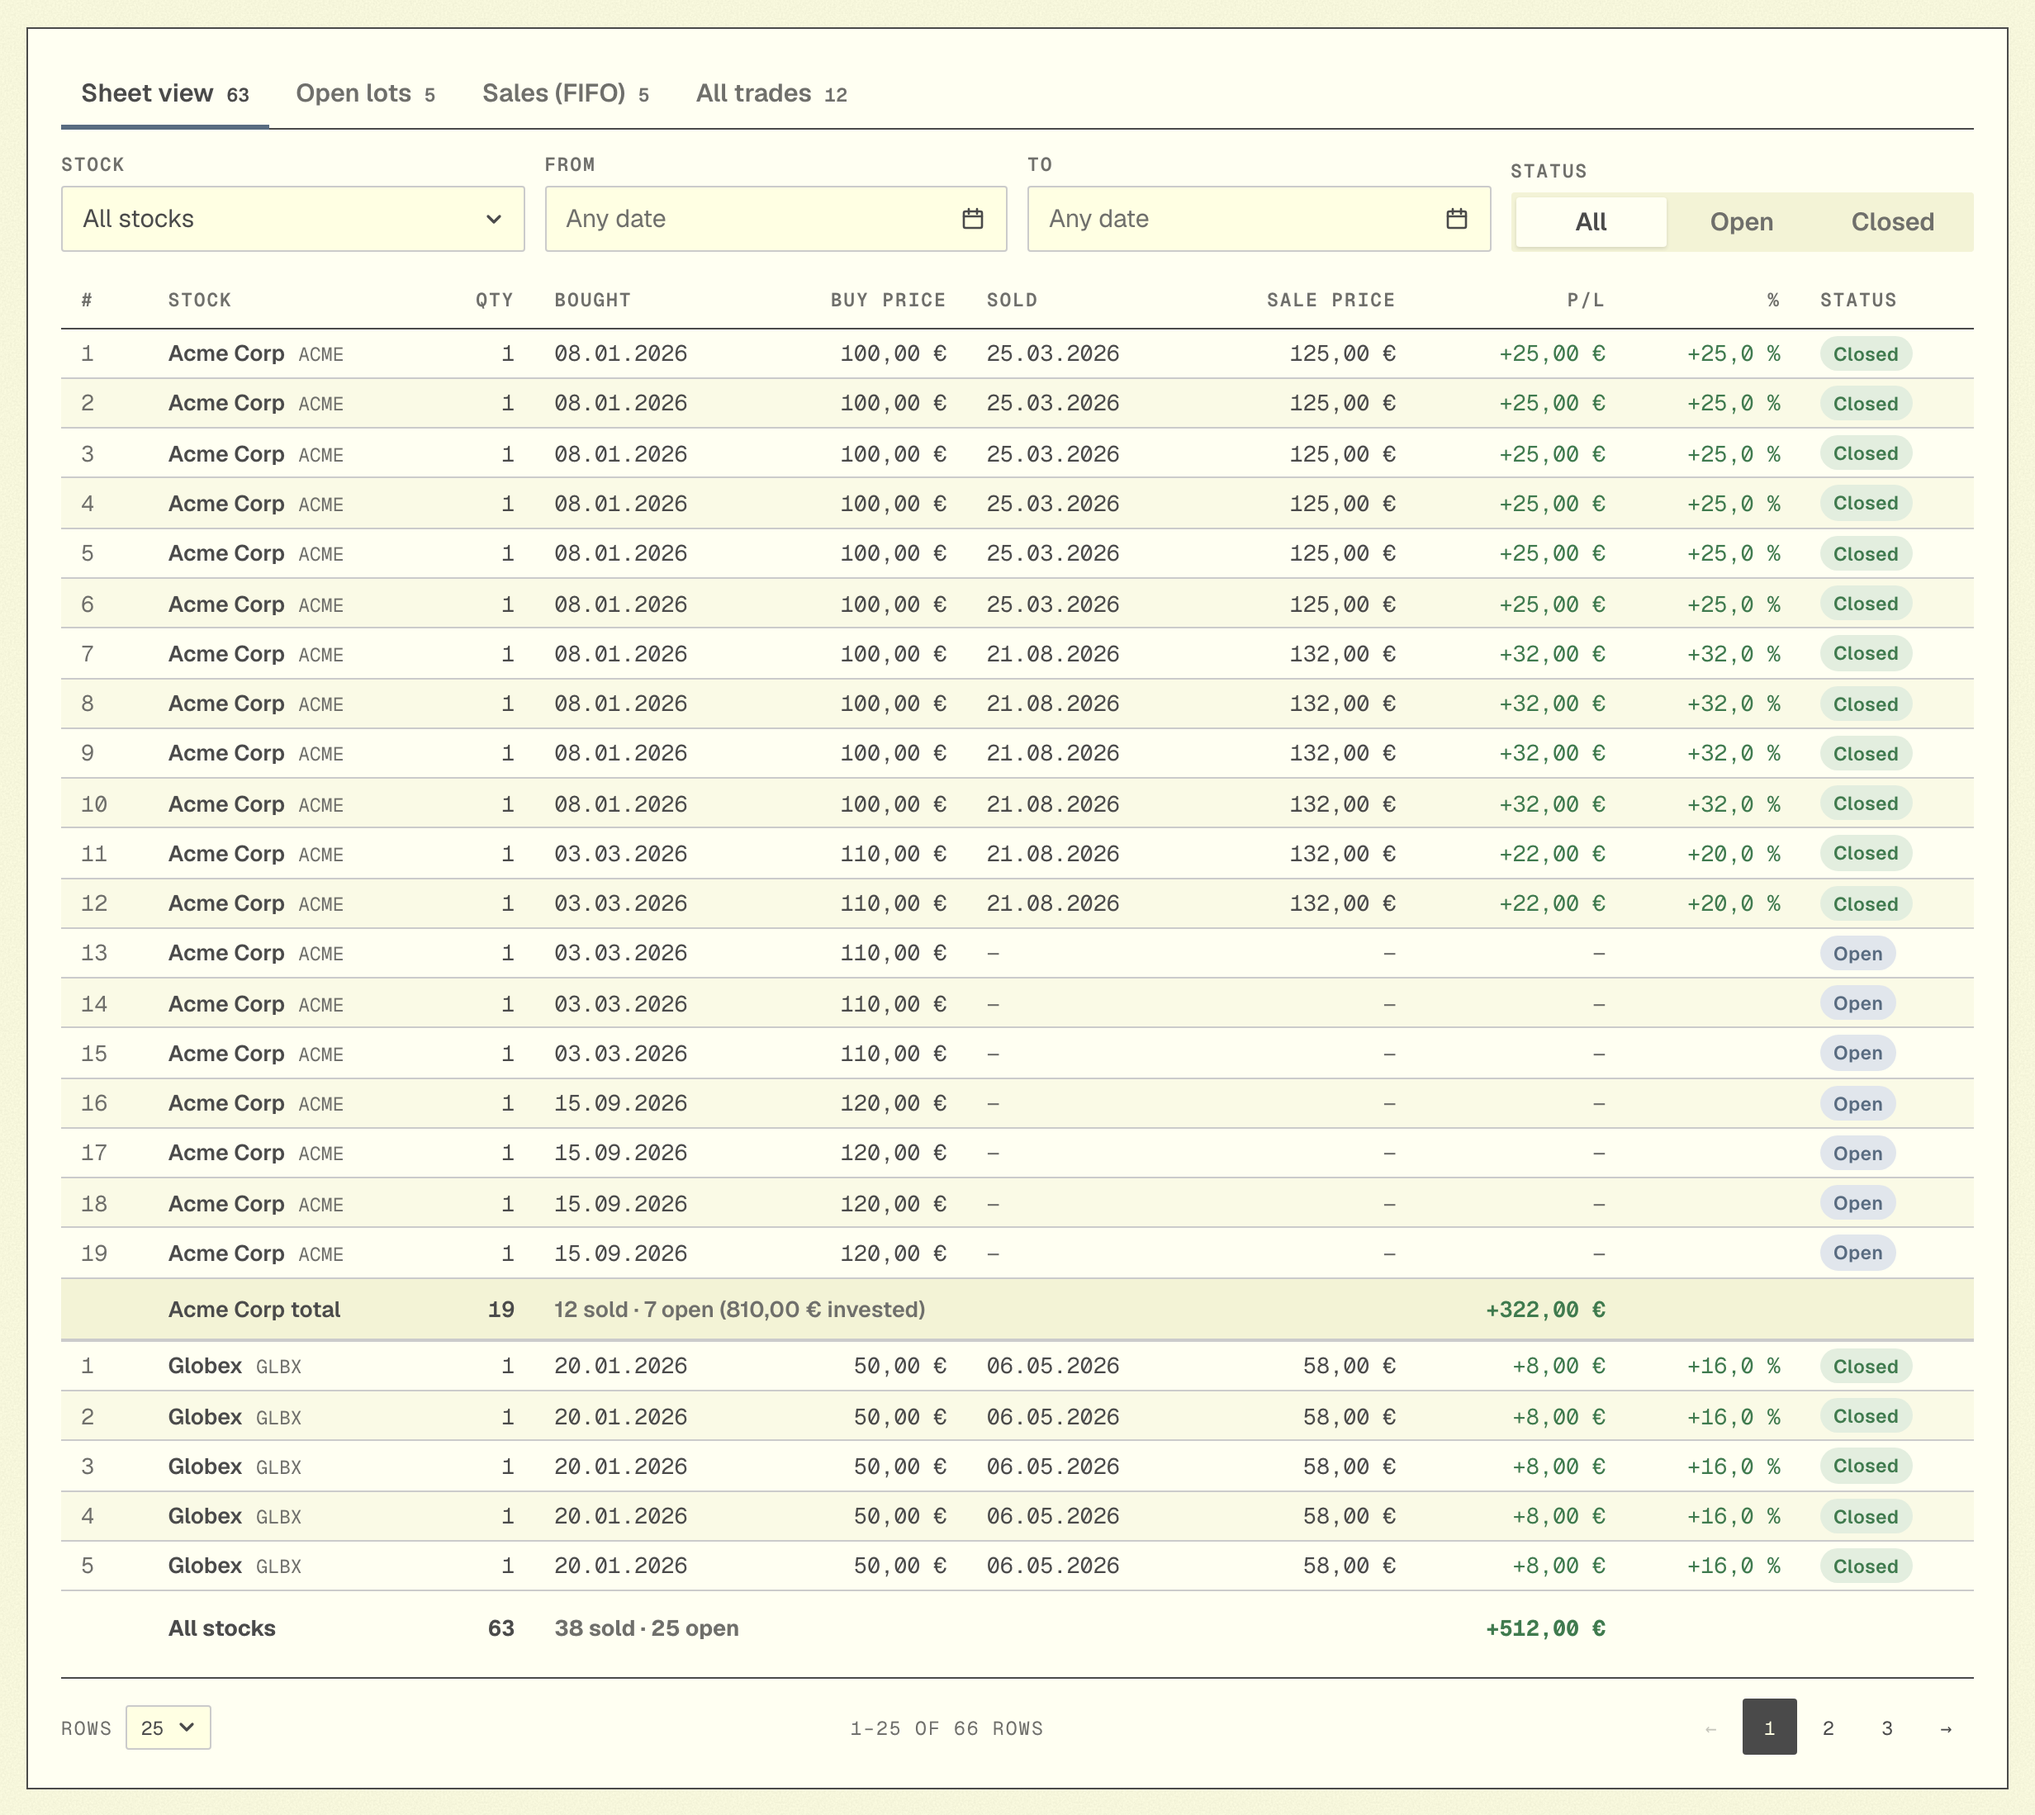
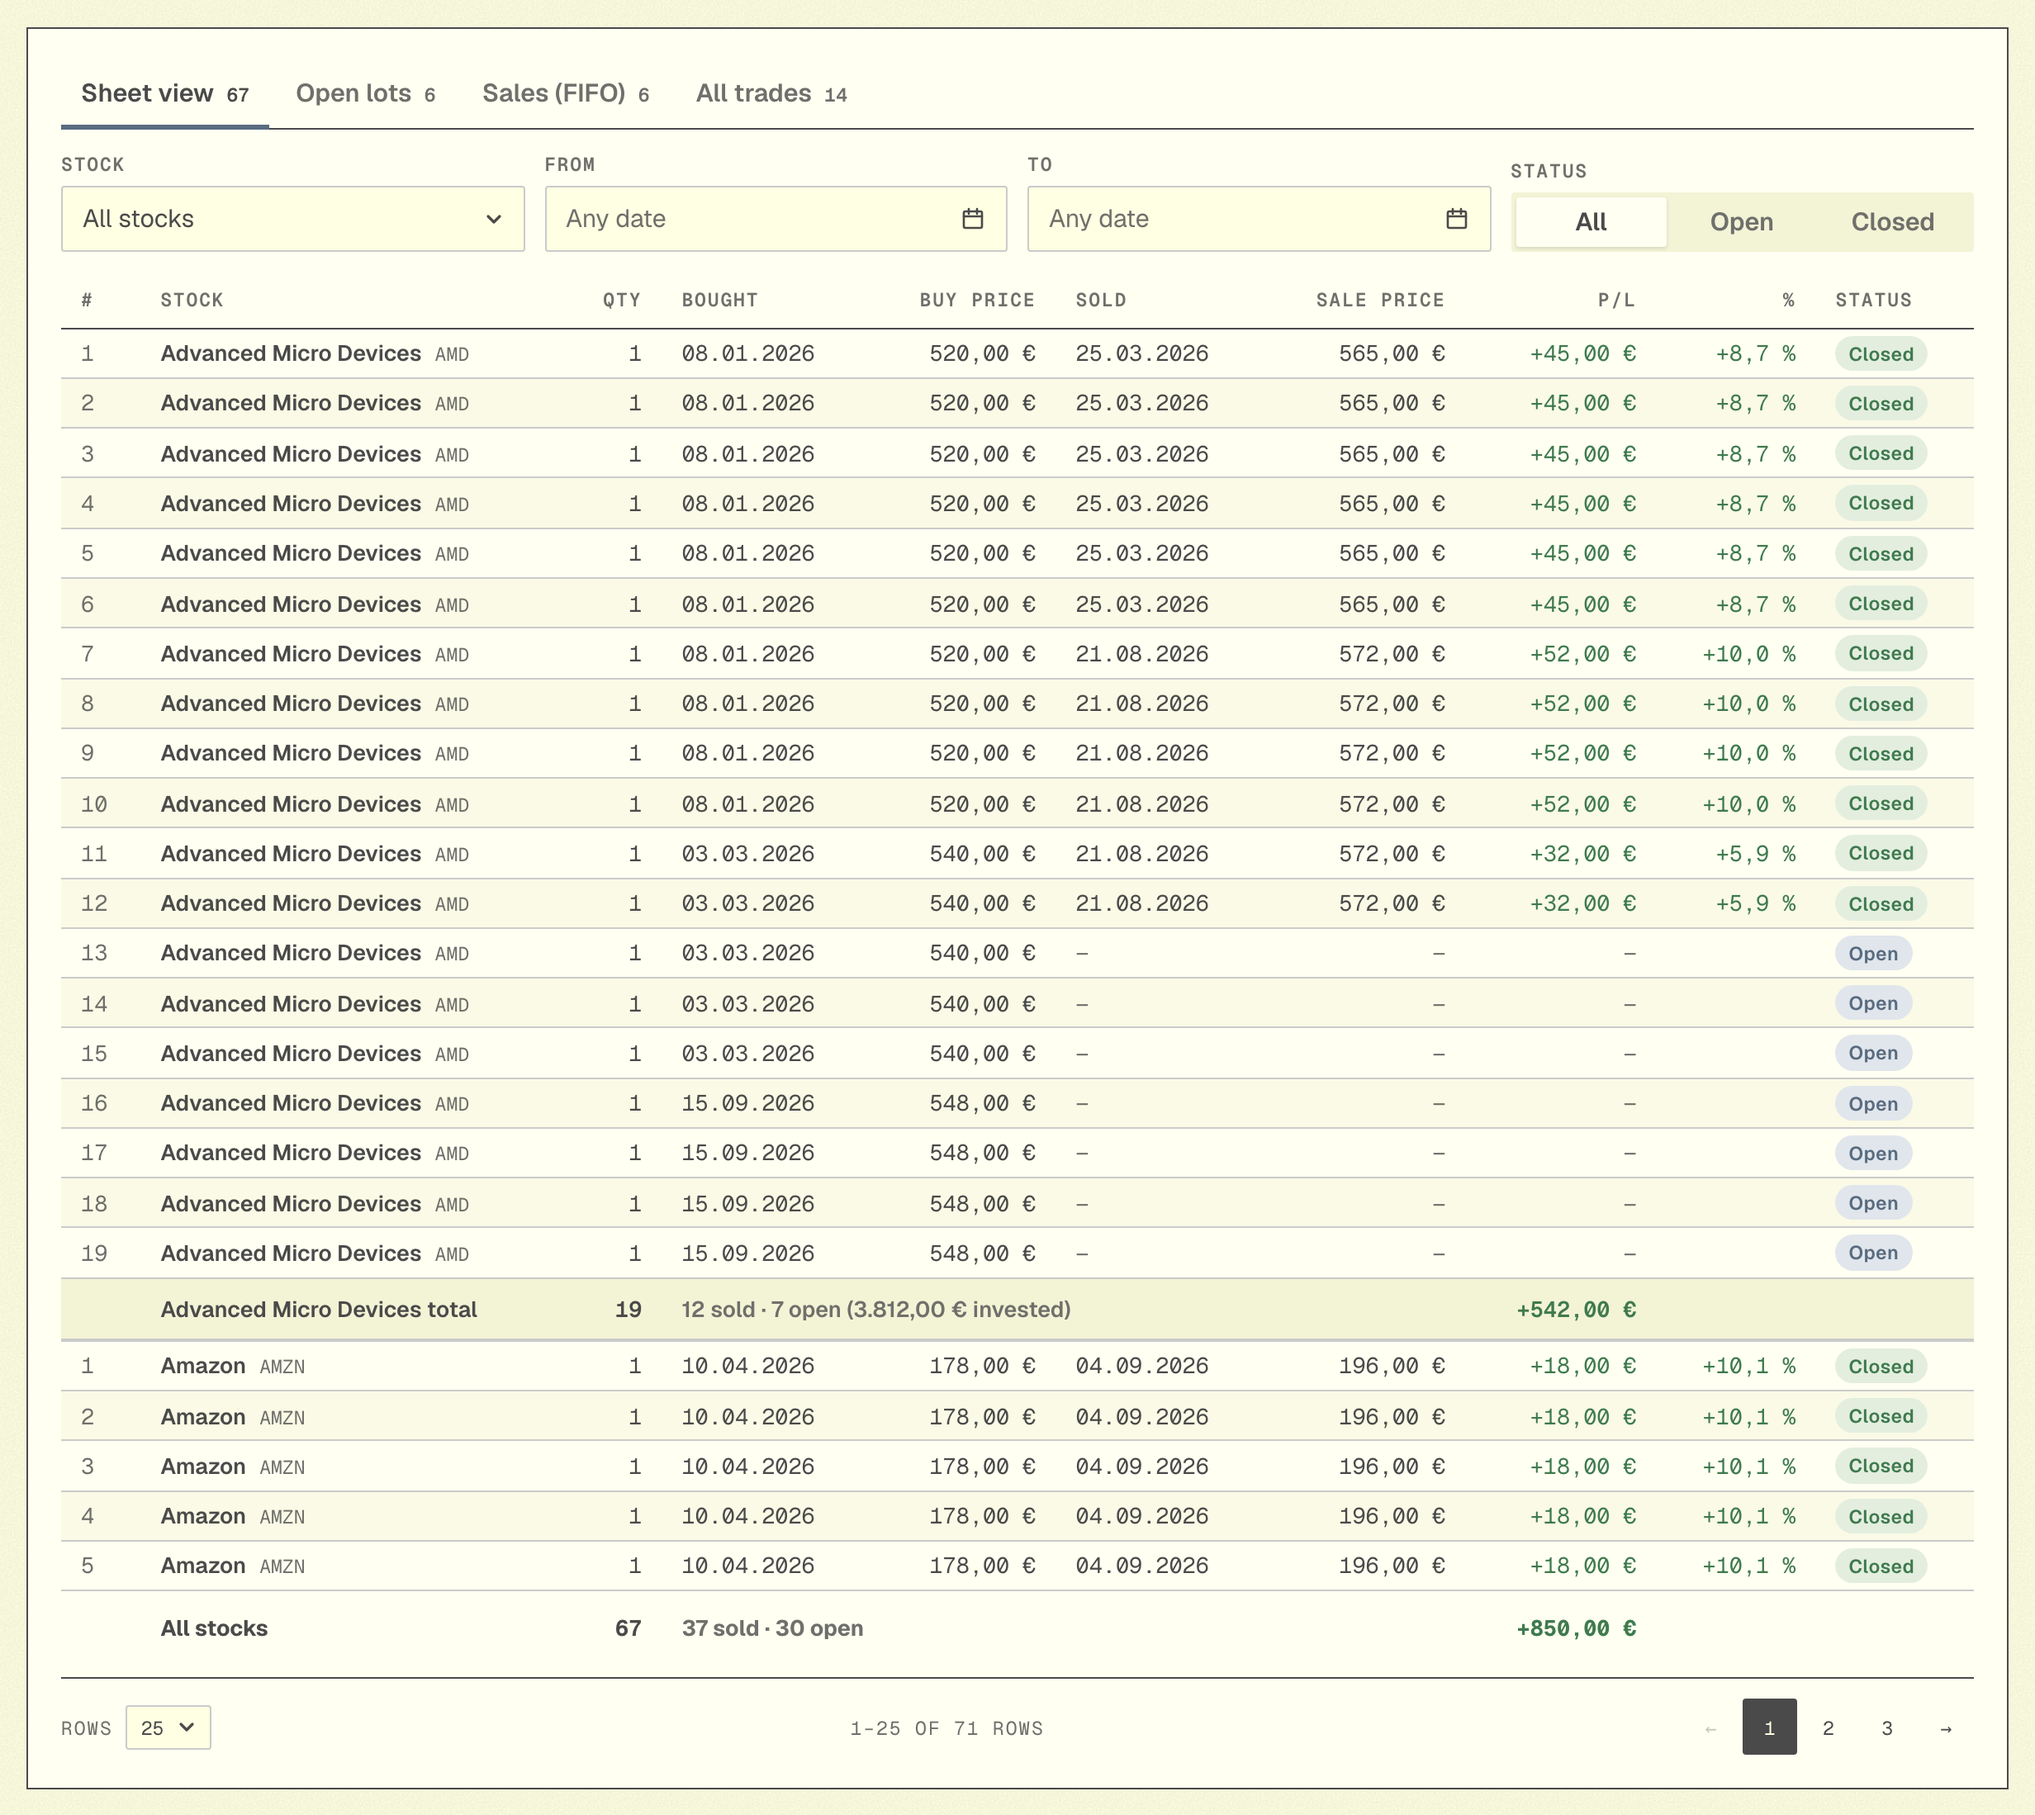
docs: README screenshots with AMD, Tesla, Apple and Amazon
Full-page Settings shot; tax table captured with every column.

diff --git a/e2e/readme/showcase-portfolio.ts b/e2e/readme/showcase-portfolio.ts
@@ -1,4 +1,4 @@
-/** A made-up portfolio for the README screenshots: three fictional companies over 2026. */
+/** An example portfolio for the README screenshots: well-known stocks, made-up trades over 2026. */
 export function showcaseBackup(): string {
   let entry = 0;
   const trade = (stockId: string, side: 'buy' | 'sell', quantity: string, price: string, tradedOn: string) => ({
@@ -15,23 +15,26 @@ export function showcaseBackup(): string {
     version: 1,
     exportedAt: '2026-10-06T10:00:00.000Z',
     stocks: [
-      { id: 'acme', name: 'Acme Corp', symbol: 'ACME' },
-      { id: 'globex', name: 'Globex', symbol: 'GLBX' },
-      { id: 'initech', name: 'Initech', symbol: 'INIT' },
+      { id: 'amd', name: 'Advanced Micro Devices', symbol: 'AMD' },
+      { id: 'tesla', name: 'Tesla', symbol: 'TSLA' },
+      { id: 'apple', name: 'Apple', symbol: 'AAPL' },
+      { id: 'amazon', name: 'Amazon', symbol: 'AMZN' },
     ],
     trades: [
-      trade('acme', 'buy', '10', '100', '2026-01-08'),
-      trade('globex', 'buy', '20', '50', '2026-01-20'),
-      trade('initech', 'buy', '8', '75', '2026-02-14'),
-      trade('acme', 'buy', '5', '110', '2026-03-03'),
-      trade('acme', 'sell', '6', '125', '2026-03-25'),
-      trade('globex', 'buy', '10', '48', '2026-04-10'),
-      trade('globex', 'sell', '12', '58', '2026-05-06'),
-      trade('initech', 'sell', '4', '70', '2026-06-18'),
-      trade('initech', 'buy', '6', '68', '2026-07-02'),
-      trade('acme', 'sell', '6', '132', '2026-08-21'),
-      trade('acme', 'buy', '4', '120', '2026-09-15'),
-      trade('globex', 'sell', '10', '61', '2026-10-01'),
+      trade('amd', 'buy', '10', '520', '2026-01-08'),
+      trade('tesla', 'buy', '10', '380', '2026-01-23'),
+      trade('apple', 'buy', '15', '195', '2026-02-14'),
+      trade('amd', 'buy', '5', '540', '2026-03-03'),
+      trade('amd', 'sell', '6', '565', '2026-03-25'),
+      trade('amazon', 'buy', '12', '178', '2026-04-10'),
+      trade('tesla', 'buy', '5', '315', '2026-04-23'),
+      trade('apple', 'sell', '8', '214', '2026-05-06'),
+      trade('tesla', 'sell', '4', '350', '2026-06-18'),
+      trade('apple', 'buy', '6', '205', '2026-07-02'),
+      trade('amd', 'sell', '6', '572', '2026-08-21'),
+      trade('amazon', 'sell', '7', '196', '2026-09-04'),
+      trade('amd', 'buy', '4', '548', '2026-09-15'),
+      trade('tesla', 'sell', '6', '405', '2026-10-01'),
     ],
   });
 }

diff --git a/e2e/readme/screenshots.spec.ts b/e2e/readme/screenshots.spec.ts
@@ -3,7 +3,7 @@ import { test } from '../fixtures';
 import { openPortfolio, openSettings } from '../portfolio-page';
 import { showcaseBackup } from './showcase-portfolio';
 
-/* Regenerates the images in docs/screenshots with a made-up portfolio. Run with `npm run screenshots`. */
+/* Regenerates the images in docs/screenshots from an example portfolio. Run with `npm run screenshots`. */
 const OUT = 'docs/screenshots';
 
 test.use({ deviceScaleFactor: 2 });
@@ -44,7 +44,7 @@ test('README screenshots @screenshots', async ({ openDevice }) => {
   const form = page.locator('tc-trade-form');
   await form.getByText('Sell', { exact: true }).click();
   await page.locator('#trade-quantity').fill('9');
-  await page.locator('#trade-price').fill('128');
+  await page.locator('#trade-price').fill('585');
   await page.waitForTimeout(300);
   await shotOf(page, 'sell-form.png', form);
   await page.locator('#trade-quantity').fill('');
@@ -55,12 +55,17 @@ test('README screenshots @screenshots', async ({ openDevice }) => {
   await page.waitForTimeout(300);
   await shotOf(page, 'reports.png', page.locator('section.totals'), page.locator('tc-month-charts'));
   await page.emulateMedia({ colorScheme: 'light' });
+  // A wider page column for this shot only, so the whole table fits inside its panel.
+  await page.setViewportSize({ width: 1720, height: 900 });
+  await page.evaluate(() => document.documentElement.style.setProperty('--tc-content-max-width', '1680px'));
   await page.waitForTimeout(300);
-  await shotOf(page, 'tax-per-share.png', page.locator('tc-sale-tax-table'));
+  await shotOf(page, 'tax-per-share.png', page.locator('tc-panel', { has: page.locator('tc-sale-tax-table') }));
+  await page.evaluate(() => document.documentElement.style.removeProperty('--tc-content-max-width'));
+  await page.setViewportSize({ width: 1280, height: 900 });
 
   await openSettings(page);
   await page.evaluate(() => window.scrollTo(0, 0));
-  await shotOf(page, 'settings.png', page.locator('tc-data-panel'));
+  await page.screenshot({ path: `${OUT}/settings.png`, fullPage: true });
 
   await page.setViewportSize({ width: 390, height: 844 });
   await openPortfolio(page);

diff --git a/README.md b/README.md
@@ -17,7 +17,7 @@
 
 ![Trade Count portfolio page: totals, the trade form and the stocks you hold](docs/screenshots/portfolio.png)
 
-<sub>Screenshots use a made-up portfolio. Regenerate them with `npm run screenshots`.</sub>
+<sub>Screenshots show an example portfolio of well-known stocks with made-up trades and prices. Regenerate them with `npm run screenshots`.</sub>
 
 ## Features
 
@@ -45,9 +45,9 @@ The ledger shows each share on its own line, plus open lots, FIFO-matched sales 
 ![Sheet view of the ledger: one line per share with buy and sale price, profit and status](docs/screenshots/ledger.png)
 
 ### Your data, your devices
-Keep a **backup file**, or turn on **end-to-end encrypted sync** to use the same portfolio on your phone and laptop. Sync is optional and needs no account: one sync key is all it takes.
+Keep a **backup file**, or turn on **end-to-end encrypted sync** to use the same portfolio on your phone and laptop. Sync is optional and needs no account: one sync key is all it takes. Settings is also where you set your tax rate and choose light, dark or automatic appearance.
 
-<p align="center"><img src="docs/screenshots/settings.png" width="560" alt="Settings: sync and backup options"></p>
+<p align="center"><img src="docs/screenshots/settings.png" width="720" alt="Settings page: encrypted sync, backup file, tax rate and light or dark appearance"></p>
 
 ### Made for every screen
 Installable as an app (PWA), works offline, light and dark themes, and a layout that adapts to phones.
